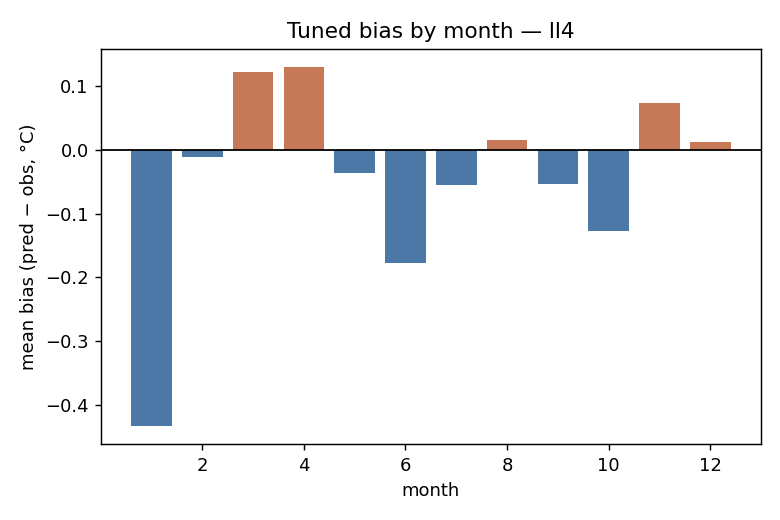
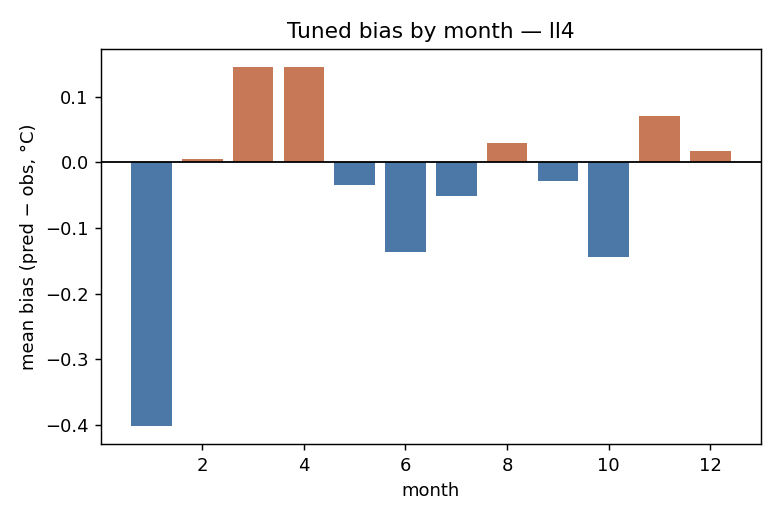
fix(paper): report the leak-free backtest throughout
Every accuracy number in the manuscript came from the run in which recipe
selection saw the years later withheld for scoring. The README prescribes
train-only selection; that run existed but was cited only as a side check.
Swap the reporting so the leak-free run is the result and the leaky one is
the control it was always meant to be.

Ran the README Step-2 workflow for all three splits into
$RES/tuning/backtest_clean/. ll4 reproduces the earlier extended-h-grid run
exactly (RMSE 1.2279270170806023, skill 0.2001349255519036), an independent
reproducibility check, and ll1/ll2 now exist leak-free for the first time.

Headline moves 1.219 -> 1.228 RMSE, skill 0.206 -> 0.200: removing the
leakage costs skill, as it should. ll1 moves the other way (0.249 -> 0.254)
because the wider bandwidth grid more than compensates.

Selection optimism becomes a controlled 3-way comparison at fixed candidate
set rather than a single confounded difference: leakage inflates ll4 skill
by 0.009 (0.013 C RMSE, 4% of the gain over climatology); widening h
recovers 0.003. Methods now states train-only selection as the protocol
rather than as a repeat of the main run.

FAO-56 baselines re-scored on the clean predictions; conclusion unchanged,
the -2 C arid offset still degrades every moisture class and the best single
offset is +2.25 C. Lead-time, ladder, monthly-bias and delta-RMSE figures
regenerated from the clean run.

backtest_clean/metrics_all.csv held only ll4: backtest.py rewrites it per
[…]

diff --git a/reports/paper/scripts/fao56_corrected_baseline.py b/reports/paper/scripts/fao56_corrected_baseline.py
@@ -11,8 +11,13 @@ The offset is applied to classes D and E.
 import numpy as np
 import pandas as pd
 
-RES = "/media/ppalacios/Data1/henry_simcast_peru_full/results_tuning"
-PRED = f"{RES}/tuning/backtest/ll4/predictions.parquet"
+import os
+
+RES = os.environ.get("RES", "/media/ppalacios/Data1/henry_simcast_peru_full/results_tuning")
+# Scored on the leak-free backtest (selection restricted to training years), which is the
+# run the manuscript reports. Override with BACKTEST_ROOT to score a different run.
+ROOT = os.environ.get("BACKTEST_ROOT", f"{RES}/tuning/backtest_clean")
+PRED = f"{ROOT}/ll4/predictions.parquet"
 
 lab = (pd.read_parquet(f"{RES}/tuning/manifest.parquet")[["zone_id", "zone_label"]]
        .drop_duplicates().set_index("zone_id")["zone_label"])

diff --git a/PAPER_PLAN.md b/PAPER_PLAN.md
@@ -300,6 +300,10 @@ be mindful of bias; **disclose AI use** in the paper.
   worth the full run (B0 gate cleared).** Caveat: variant (a) — recipe *selection* used the 1981–2016 manifest
   (saw holdout); A5 (re-select on train-years) will bound that residual optimism. Report:
   `reports/results/phase_a_backtest.md`.
+
+  > ⚠ **SUPERSEDED AS THE PAPER HEADLINE (2026-09-14).** These are variant (a) numbers: selection saw the
+  > holdout. They remain valid as the *leaky* arm of the selection-optimism experiment, but the manuscript
+  > now reports the leak-free run (`$RES/tuning/backtest_clean/`) throughout. See the 2026-09-14 entry.
 - 2026-07-17 — **A5 DONE (selection-bias check).** Honest train-only re-select (`select_backtest.py`): ll4
   tuned skill vs clim (a) 0.2057 → (b) 0.1969 → **selection bias 0.0088 (~+0.013 °C, ~4% of uplift) —
   negligible.** Tuning improvement over climatology is real & robust. **Phase A fully complete (A1–A5).**
@@ -414,3 +418,39 @@ be mindful of bias; **disclose AI use** in the paper.
   lists drafted from recollection → MUST verify**; `reports/results/` is gitignored (.gitignore:64) so the
   Phase-A writeup is untracked; figure scripts still in scratchpad; product/code DOI deposit.
   **Still uncommitted on this branch: `fill_zoned.py`, `reports/paper/`.**
+
+- 2026-09-14 — **LEAK-FREE BACKTEST (all three splits) — the manuscript's reported numbers.** Ran the
+  README Step-2 recipe end to end for ll1/ll2/ll4 into `$RES/tuning/backtest_clean/`: `select_backtest`
+  (train-only frames + train-only climatology, 16 buckets, per_zone_n=200, h-grid 7,11,15,21,31,45) →
+  `backtest` (64 buckets, the train-only manifest) → `effect_sizes` (1000 boot / 5000 perm). Script:
+  `$RES/tuning/backtest_clean_run.sh`. **ll4 reproduces `backtest_hgrid_ext` bit for bit**
+  (RMSE 1.2279270170806023, skill 0.2001349255519036) — an independent reproducibility check — and extends
+  the protocol to ll1/ll2, which previously existed only in the leaky variant.
+
+  | split (train→predict) | RMSE tuned | RMSE clim | ΔRMSE vs clim [CI] | skill | cells win | Cohen d | p |
+  |---|---|---|---|---|---|---|---|
+  | ll1 (1981–2015→2016) | 1.254 | 1.680 | +0.427 [0.425,0.428] | 0.254 | 100.0% | 4.19 | 2e-4 |
+  | ll2 (1981–2014→2015–16) | 1.276 | 1.667 | +0.390 [0.389,0.392] | 0.234 | 99.98% | 3.04 | 2e-4 |
+  | **ll4 (1981–2012→2013–16)** | **1.228** | **1.535** | **+0.307 [0.306,0.309]** | **0.200** | **99.99%** | **2.93** | **2e-4** |
+
+  n = 24,876,447 scored cell-days, 17,027 cells. bias −0.033 °C, r 0.990. vs Td=Tmin +2.323 [2.300,2.345];
+  vs zone OLS +1.101 [1.082,1.118]. Monthly bias: December +0.017 °C, max |bias| 0.402 °C (January).
+
+  **Selection-optimism, now a controlled 3-way comparison** (`backtest/hgrid_check.log`), all ll4 skill:
+  (a) selection on 1981–2016, h∈{7,11,15,21} = **0.2057**; (b) selection train-only, same grid = **0.1969**;
+  (c) selection train-only, h∈{7,11,15,21,31,45} = **0.2001**. (a)−(b) = **0.0088 skill / 0.013 °C RMSE**
+  is the leakage inflation at fixed candidate set; (c)−(b) = +0.003 is what widening the grid recovers.
+  The paper reports (c) and cites (a)−(b) as the bound. Note ll4 skill *falls* 0.206→0.200 versus the old
+  headline (leakage removed), while ll1 *rises* 0.249→0.254 (the wider h-grid more than compensates).
+
+  **Paper synced:** all headline numbers, both effect tables, the FAO-56 table (re-scored on the clean
+  predictions — conclusion unchanged: the −2 °C arid offset degrades every moisture class; best single
+  offset +2.25 °C → RMSE 2.847), n and cell counts, the monthly-bias sentence, and the Methods framing
+  (train-only is now the default protocol, not "a repeat"). Figures regenerated from the clean run:
+  `S2_lead_time_curve`, `S2_rmse_ladder_ll4`, `S2_bias_by_month_ll4`, `S2_delta_rmse_hist_ll4`.
+  ⚠ `backtest_clean/metrics_all.csv` was written once per split by `backtest.py`, so each invocation
+  overwrote it and only ll4 survived; rebuilt by concatenating the three per-split `metrics.csv` before
+  regenerating the lead-time curve. `fao56_corrected_baseline.py` now takes `BACKTEST_ROOT` from the
+  environment (default `backtest_clean`) instead of hard-coding the leaky root.
+  Renders clean via Typst: 22 pages, 0 unresolved cross-refs, 0 orphan citations.
+

diff --git a/reports/paper/scripts/README.md b/reports/paper/scripts/README.md
@@ -12,6 +12,15 @@ each script) and are read-only with respect to the data products.
 | `make_seam_fig.py` | F3 (seam artefact test on full-year windows + natural-variability control); caches per-cell window means to `$RES/tuning/seam_windows_cache.parquet` so replots are fast |
 | `make_f5_month_of_year.py` | F5 (warm tail by month of year) from `warm_tail_monthly.json`; no data scan needed |
 | `warm_tail_diagnostics.py` | warm-tail diagnostics: per-year and per-month >35 C incidence, Td-vs-Tmin bound violation, effect of capping, run-length clustering; dumps `warm_tail_monthly.json` used to build F5 |
+| `november_diagnostics.py` | why the warm tail is a November phenomenon: per-month skill, selected bandwidth by zone and month; output kept in `november_diagnostics_output.txt` |
+| `make_f_selection.py` | F0 (selected models: h distribution, h by zone and day of year, predictor retention, skill uplift) |
+| `fao56_corrected_baseline.py` | Table: corrected FAO-56 baselines (Allen's -2 C, arid-only and global, best single offset) scored per Thornthwaite moisture class. Reads `$BACKTEST_ROOT` (default `$RES/tuning/backtest_clean`, the leak-free run the paper reports) |
+| `excess_bound_eval.py` | Table: the family `Td <= Tmin + k` on the *production* fill -- share of field altered, mean shift, share of >35 C exceedances removed |
+| `backtest_clean_run.sh` | the leak-free validation run itself, as executed: `select_backtest` (train-only) then `backtest` then `effect_sizes` for ll1/ll2/ll4 into `$RES/tuning/backtest_clean/`. Every accuracy number in the paper comes from this run |
+
+Selection never sees the withheld years: `backtest_clean_run.sh` selects predictors and bandwidth on
+the training years alone. The older `$RES/tuning/backtest/` run, in which selection saw 1981–2016, is
+retained only as the leaky arm of the selection-optimism comparison reported in the paper.
 
 These were reconstructed into the repository on 2026-09-07 after the originals were lost from
 `/tmp` in a reboot — which is why they now live under version control.
